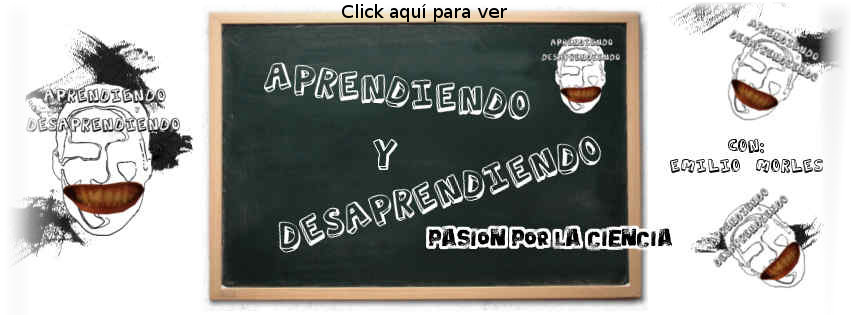
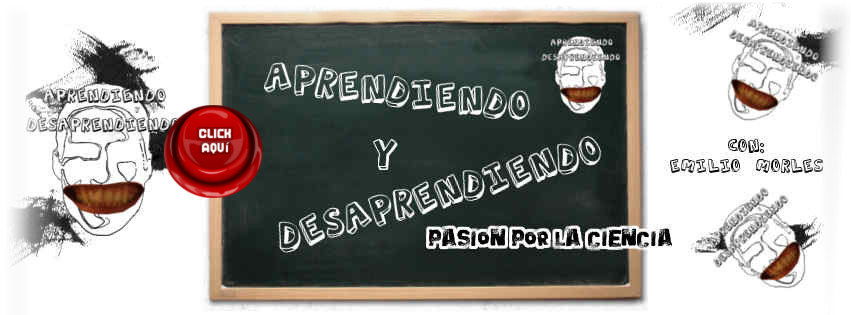
add imagen y link profemiliomorles y actualizaciones varias

Changed region(s): [[0.1833, 0.3143, 0.3361, 0.6286], [0.3666, 0.0, 0.611, 0.0857], [0.6416, 0.0571, 0.6722, 0.0857]]

diff --git a/books.html b/books.html
@@ -72,21 +72,26 @@
         <!-- Articulos -->
         <div class="container">
 
-            <h1 id="titulocur">Mis 10 libros preferidos que puedo recomendarte</h1>
+            <h1 id="titulocur">Mis 15 libros preferidos que puedo recomendarte</h1>
             <br>
 
             <fieldset class="fieldset2">
                 <ol>
                         <li><strong>LO MEJOR QUE EL DINERO NO PUEDE COMPRAR <em>- MAS ALLÁ DE LA POLÍTICA, LA POBREZA Y LA GUERRA</em></strong> (The Best that Money Can't Buy: Beyond Politics, Poverty & War). <strong>Autor:</strong> Jacque Fresco</li>
-                        <li><strong>EL MUNDO Y SUS DEMONIOS <em>- LA CIENCIA COMO UNA LUZ EN LA OSCURIDAD</em></strong>(The Demon-Haunted World: Science as a Candle in the Dark). <strong>Autor:</strong> Carl Sagan</li>
-                        <li><strong>LA SOCIEDAD DE COSTE MARGINAL CERO <em>- EL INTERNET DE LAS COSAS, EL PROCOMÚN COLABORATIVO Y EL ECLIPSE DEL CAPITALISMO</em></strong> (The Zero Marginal Cost Society: The internet of things, the collaborative commons, and the eclipse of capitalism). <strong>Autor:</strong> Jeremy Rifkin</li>
+                        <li><strong>LA FÍSICA DEL FUTURO <em>- CÓMO LA CIENCIA DETERMINARÁ EL DESTINO DE LA HUMANIDAD Y NUESTRA VIDA COTIDIANA EN EL SIGLO XXII</em></strong> (Physics of the Future). <strong>Autor:</strong> Michio Kaku</li>
                         <li><strong>LA INTELIGENCIA EMOCIONAL <em>- POR QUÉ ES MÁS IMPORTANTE QUE EL COCIENTE INTELECTUAL</em></strong> (Emotional Intelligence: Why It Can Matter More Than IQ). <strong>Autor:</strong> Daniel Goleman</li>
-                        <li><strong>EL HOMBRE QUE CALCULABA</strong> (The Man Who Counted). <strong>Autor:</strong> Malba Tahan</li>
-                        <li><strong>DISEÑANDO EL FUTURO</strong> (Designing the Future). <strong>Autor:</strong> Jacque Fresco</li>
-                        <li><strong>EL ORIGEN DE LAS ESPECIES</strong> (On the Origin of Species). <strong>Autor:</strong> Charles Darwin</li>
-                        <li><strong>THE TYRANNY OF WORDS</strong>. <strong>Autor:</strong> Stuart Chase</li>
+                        <li><strong>LA SOCIEDAD DE COSTE MARGINAL CERO <em>- EL INTERNET DE LAS COSAS, EL PROCOMÚN COLABORATIVO Y EL ECLIPSE DEL CAPITALISMO</em></strong> (The Zero Marginal Cost Society: The internet of things, the collaborative commons, and the eclipse of capitalism). <strong>Autor:</strong> Jeremy Rifkin</li>
                         <li><strong>LA DIVERSIDAD DE LA CIENCIA <em>- UNA VISIÓN PERSONAL DE LA BUSQUEDA DE DIOS</em></strong> (The Varieties of Scientific Experience: A Personal View of the Search for God). <strong>Autor:</strong> Carl Sagan</li>
-                        <li><strong>EL LENGUAJE DEL CUERPO <em>- CÓMO LEER EL PENSAMIENTO DE LOS DEMÁS A TRAVÉS DE SUS GESTOS</em></strong> (Body language). <strong>Autor:</strong> Allan Pease</li>
+                        <li><strong>EL GRAN DISEÑO</strong> (The Grand Design). <strong>Autor:</strong> Stephen Hawking y Leonard Mlodinow</li>
+                        <li><strong>THE TYRANNY OF WORDS</strong>. <strong>Autor:</strong> Stuart Chase</li>
+                        <li><strong>DISEÑANDO EL FUTURO</strong> (Designing the Future). <strong>Autor:</strong> Jacque Fresco</li>
+                        <li><strong>EL MUNDO Y SUS DEMONIOS <em>- LA CIENCIA COMO UNA LUZ EN LA OSCURIDAD</em></strong>(The Demon-Haunted World: Science as a Candle in the Dark). <strong>Autor:</strong> Carl Sagan</li>
+                        <li><strong>EL LENGUAJE DEL CUERPO <em>- CÓMO LEER EL PENSAMIENTO DE LOS DEMÁS A TRAVÉS DE SUS GESTOS</em></strong> (Body language. How to read others'thoughts). <strong>Autor:</strong> Allan Pease</li>
+                        <li><strong>EL ORIGEN DE LAS ESPECIES</strong> (On the Origin of Species). <strong>Autor:</strong> Charles Darwin</li>
+                        <li><strong>UTOPÍA</strong> (Utopia). <strong>Autor:</strong> Thomas More</li>
+                        <li><strong>EL HOMBRE QUE CALCULABA</strong> (The Man Who Counted). <strong>Autor:</strong> Malba Tahan</li>
+                        <li><strong>EL DEDO DE GALILEO <em>- LAS DIEZ GRANDES IDEAS DE LA CIENCIA</em></strong> (Galileo's Finger. The ten great ideas of Science). <strong>Autor:</strong> Peter Atkins</li>
+                        <li><strong>FOCUS <em>- EL MOTOR OCULTO DE LA EXCELENCIA</em></strong> (Focus - The Hidden Driver of Excellence). <strong>Autor:</strong> Daniel Goleman</li>
                 </ol>
 
             </fieldset>

diff --git a/index.html b/index.html
@@ -72,7 +72,7 @@
 
         <!-- Articulos -->
         <div class="container">
-            <p id="pp"><strong>Mi objetivo principal es mejorar la sociedad. Soy activista del <a href="https://www.thevenusproject.com/es" target="_blank">Proyecto Venus</a>. Además soy divulgador de ciencia y tecnología, ateo, vegetariano, licenciado en educación y geek de informatica. También creo páginas WEB dinámicas adaptativas, edito imágenes y videos, estudio programación (Python, Java, SQL), soy dibujante y deportista.</strong></p>
+            <p id="pp"><strong>Mi objetivo principal es mejorar la sociedad. Soy activista del <a href="https://www.thevenusproject.com/" target="_blank">Proyecto Venus</a>. Además soy <a href="#D-imag">YOUTUBER</a> divulgador de ciencia y tecnología, vegetariano, ateo, licenciado en educación y geek de informatica. También creo páginas WEB dinámicas adaptativas, edito imágenes y videos, estudio programación (Python, Java, SQL), soy dibujante y deportista.</strong></p>
 
             <br>
 
@@ -83,12 +83,14 @@
             <article id="col-2">
                 Vive como si fueras a morir mañana. Aprende como si fueras a vivir para siempre ♦ La ciencia es más que un simple conjunto de conocimientos: es una manera de pensar ♦ Sólo hay un bien: el conocimiento. Sólo hay un mal: la ignorancia ♦ Los que tienen el privilegio de saber, tienen el deber de actuar ♦ La felicidad se alcanza cuando lo que tu piensas, lo que dices y lo que haces están en armonía. ♦ No basta saber, se debe también aplicar; no es suficiente querer, se debe también hacer ♦ Nadie será totalmente libre hasta que todos seamos libres ♦ Disfruta la vida al máximo ♦ La culpa de todos los hechos en tu vida la tienes tu mismo ♦ El sabio puede cambiar de opinión. El necio, nunca ♦ Que el alimento sea tu mejor medicina y tu mejor medicina sea tu alimento ♦ Soy solo uno, pero soy uno. No puedo hacerlo todo, pero puedo hacer algo. No dejaré que lo que no puedo hacer interfiera con lo que puedo hacer.
 
-
             </article>
 
         </div>
 
         <!-- IMAGENES / IMAGES -->
+        <figure class="container">
+            <a id="D-imag" href="https://www.youtube.com/user/Profemiliomorles" target="_blank"><img src="images/ima3.jpg" alt="Youtube_Profemiliomorles"/></a>
+        </figure>
         <figure class="container">
             <a id="D-imag" href="https://www.youtube.com/user/aprendiendoydes" target="_blank"><img src="images/ima2.jpg" alt="Youtube_Aprendiendo_y_Desaprendiendo"/></a>
         </figure>
@@ -98,7 +100,7 @@
         <br>
 
         <div class="bestbooks">
-            <a href="books.html"><strong>Mis 10 libros preferidos</strong></a>
+            <a href="books.html"><strong>Mis 15 libros preferidos</strong></a>
         </div>
 
         <h1><a href="#ima">Subir</a></h1>

diff --git a/contacto.html b/contacto.html
@@ -80,19 +80,8 @@
                     <li> emiliomorles@hotmail.com</li>
                 </ul>
 
-                <ul><strong>Correo para información sobre El Proyecto Venus en Venezuela:</strong>
-                    <li>venezuela@tvpactivism.com</li>
-                </ul>
-
-                <ul><strong>Teléfono:</strong>
-                    <li>(+58)414.40.91961</li>
-                </ul>
-
                 <figure>
 
-                    <a id="redes" href="http://www.tsu.co/emiliomorles" target="_blank"><img id="tsu" src="images/Tsu.png" alt="TSÜ"/></a>
-                    tsū es por mucho mi red social favorita porque <strong>NOS PAGA A TODOS</strong>. Puedes crear tu perfil con este link. Te lo recomiendo 100%.
-                    <br>
                     <a id="redes" href="https://www.facebook.com/Profemiliomorles3D" target="_blank"><img id="facebook" src="images/facebook.png" alt="facebook"/></a>
                     <a id="redes" href="https://twitter.com/Emilio_Morles" target="_blank"><img id="twitter" src="images/twitter.png" alt="twitter"/></a>
                     <a id="redes" href="https://www.youtube.com/user/Profemiliomorles" target="_blank"><img id="youtube" src="images/youtube.png" alt="youtube"/></a>

diff --git a/curriculo.html b/curriculo.html
@@ -79,7 +79,13 @@
 
                 <ul>
                     <li>
-                        <strong>Activista en <a href="https://www.thevenusproject.com/es" target="_blank">The Venus Project</a>.</strong> Coordinador Nacional en Venezuela. <em>(venezuela@tvpactivism.com)</em>
+                        <strong>Youtuber en <a href="https://www.youtube.com/user/Profemiliomorles" target="_blank">Profemiliomorles</a></strong> Desde el 2007 hasta la actualidad.
+                    </li>
+                    <li>
+                        <strong>Youtuber en <a href="https://www.youtube.com/user/aprendiendoydes" target="_blank">Aprendiendo y Desaprendiendo</a></strong> Desde el 2011 hasta la actualidad.
+                    </li>
+                    <li>
+                        <strong>Activista en <a href="https://www.thevenusproject.com/" target="_blank">The Venus Project</a>.</strong> Ex-Coordinador Nacional en Venezuela / 2011 - 2016.
                     </li>
                 </ul>
 
